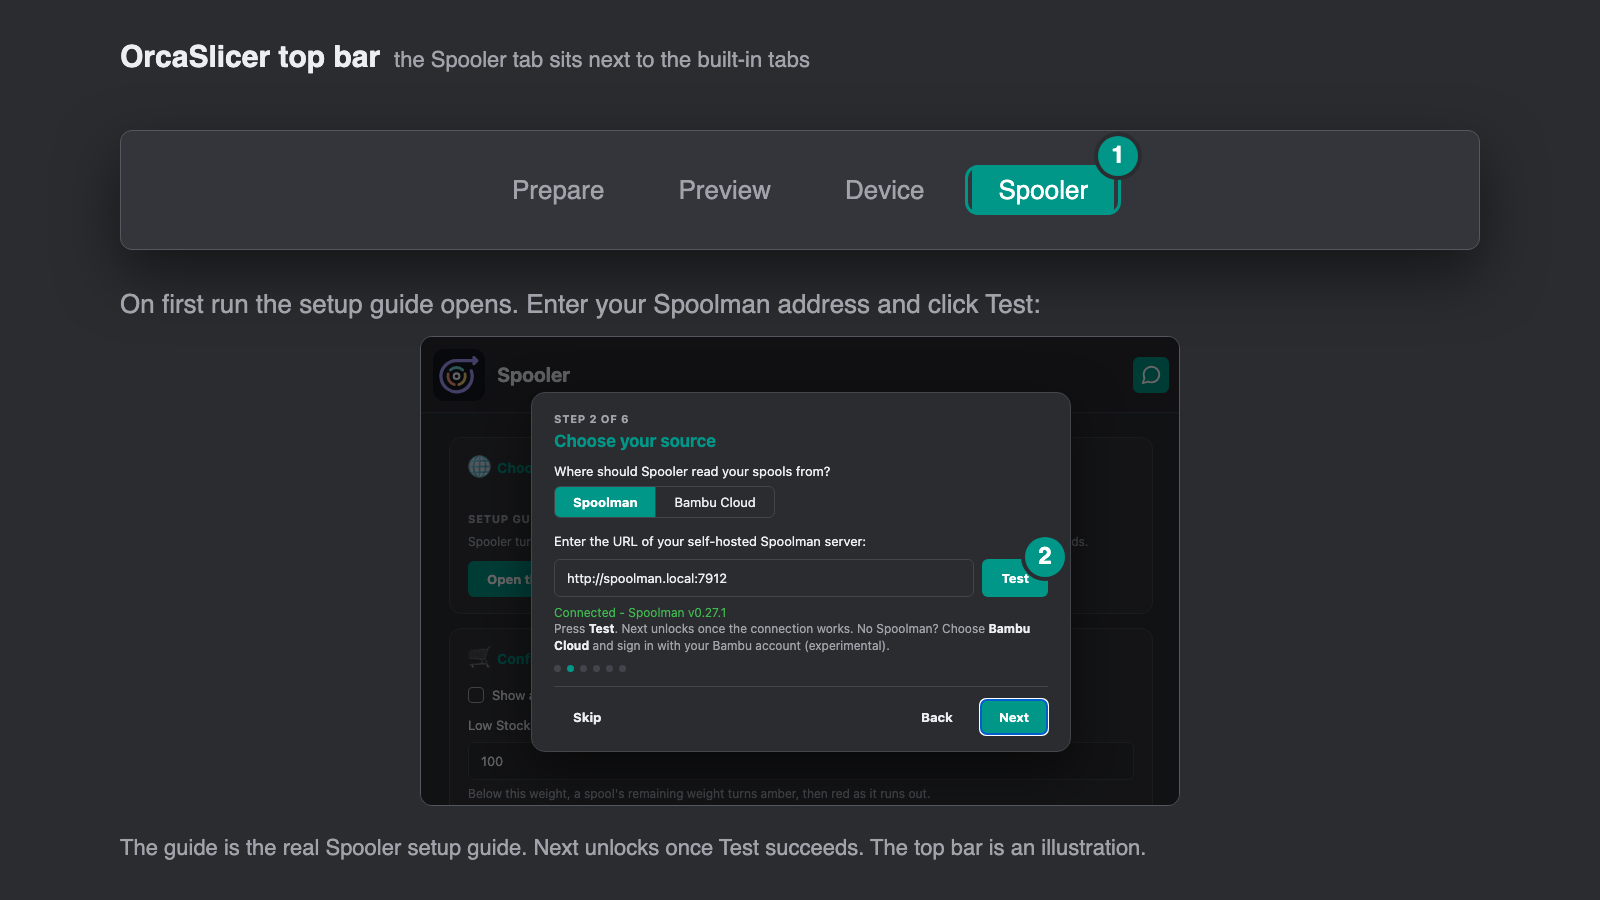
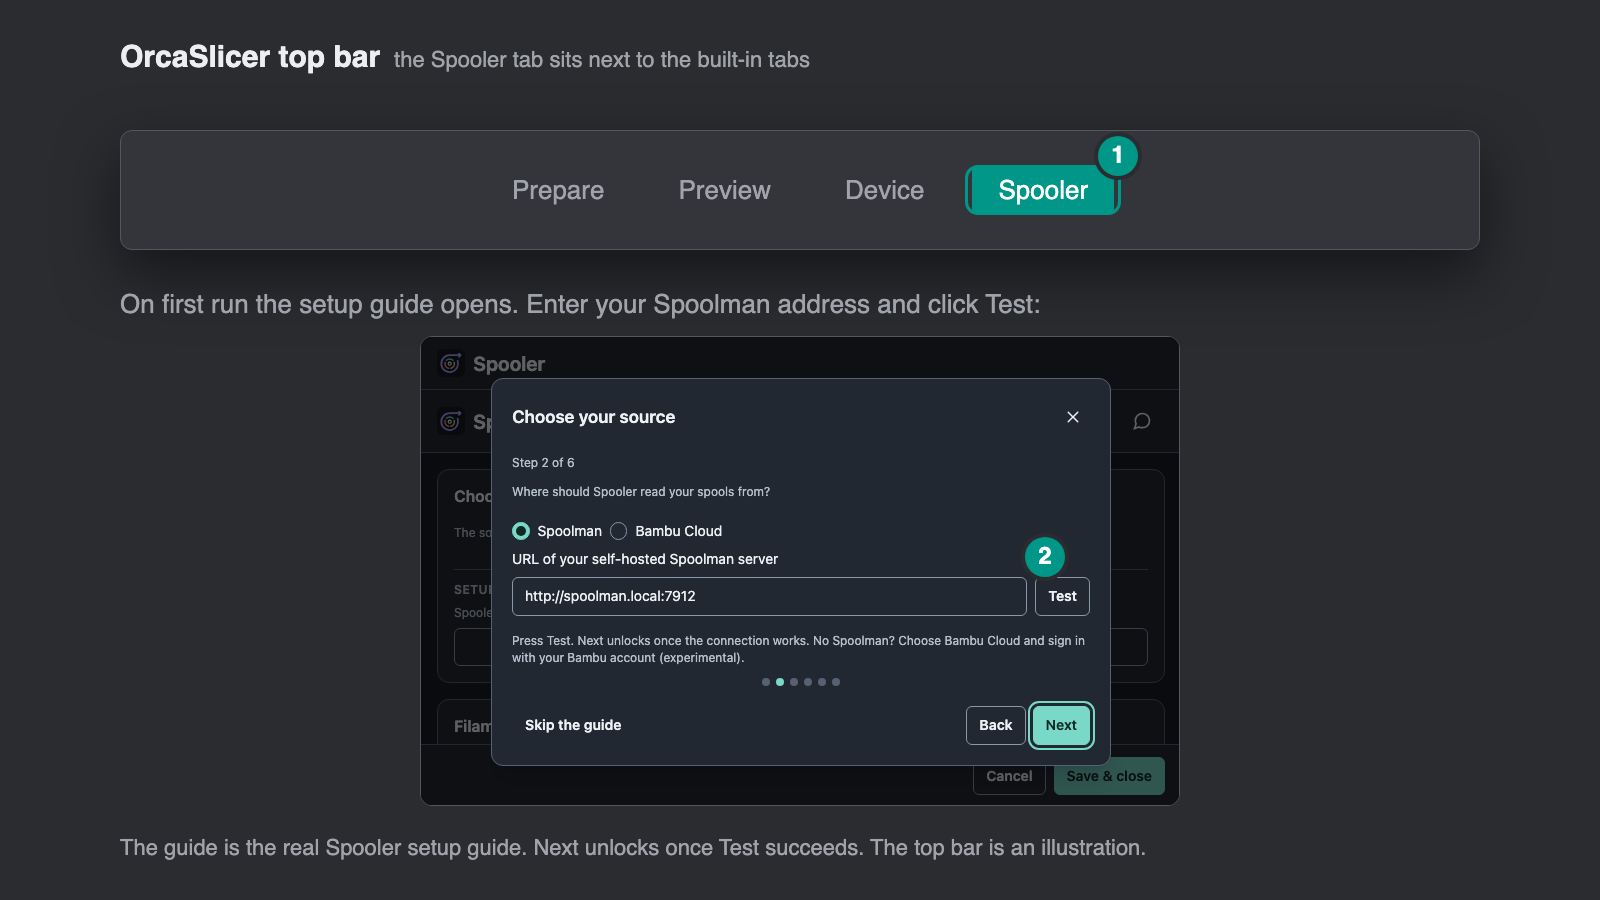
build: publish one universal spooler_any.py instead of six per-OS copies (0.22.1)
The six per-OS files were identical except for their name and a log
label. Orca Cloud's automated permission review kept failing on the
six-file upload (SECURITY_SCAN_UNAVAILABLE) while one-file plugins
publish. Build and release spooler_any.py; update the install docs.

Changed region(s): [[0.25, 0.3733, 0.75, 0.9022]]

diff --git a/scripts/build.py b/scripts/build.py
@@ -1,12 +1,14 @@
 #!/usr/bin/env python3
-"""Build the per-OS plugin files that Orca Cloud expects into dist/.
+"""Build the plugin file Orca Cloud publishes into dist/.
 
-The plugin is a single source file. Each build differs only in its filename suffix,
-which Orca Cloud uses to tell platform builds apart, and in the BUILD_TARGET it
-reports in the log.
+The plugin is a single pure-Python source file that runs on every OS, so the release is one
+universal file, spooler_any.py ("any" is Orca Cloud's suffix for every platform). Uploading six
+identical per-OS copies made Orca Cloud's automated permission review fail with
+SECURITY_SCAN_UNAVAILABLE; one file is what the other plugins publish. A per-OS copy can still be
+built by hand; it differs only in its filename suffix and the BUILD_TARGET it reports in the log.
 
-    python scripts/build.py                        # every target
-    python scripts/build.py --target linux_arm64   # one target
+    python scripts/build.py                        # spooler_any.py and the wheel
+    python scripts/build.py --target linux_arm64   # one per-OS copy instead
 """
 
 import argparse
@@ -23,7 +25,9 @@ import check_version
 ROOT = Path(__file__).resolve().parent.parent
 DIST = ROOT / "dist"
 MARKER = 'BUILD_TARGET = "any"\n'
+DEFAULT_TARGETS = ("any",)
 TARGETS = (
+    "any",
     "win_x86_64",
     "win_arm64",
     "linux_x86_64",
@@ -98,7 +102,7 @@ def main():
     parser = argparse.ArgumentParser(description=__doc__.split("\n")[0])
     parser.add_argument("--target", action="append", choices=TARGETS, help="build only this target")
     args = parser.parse_args()
-    build(tuple(args.target) if args.target else TARGETS)
+    build(tuple(args.target) if args.target else DEFAULT_TARGETS)
 
 
 if __name__ == "__main__":

diff --git a/scripts/store_images/install_guide.py b/scripts/store_images/install_guide.py
@@ -138,9 +138,9 @@ def manual_install() -> str:
 <div style="padding:6px 0">&#128193; orca_plugins</div>
 <div class="hl" style="margin:8px 0 8px 76px;padding:2px 12px;width:max-content">&#128193; spooler
 <span class="badge" style="left:-66px;top:-4px">1</span></div>
-<div class="hl" style="margin:8px 0 0 116px;padding:2px 12px;width:max-content">&#128196; spooler_&lt;os&gt;.py
+<div class="hl" style="margin:8px 0 0 116px;padding:2px 12px;width:max-content">&#128196; spooler_any.py
 <span class="badge" style="left:-66px;top:-4px">2</span></div>
-<div class="muted" style="margin:14px 0 0 116px;font-size:20px">for example spooler_win_x86_64.py or spooler_macosx_arm64.py</div>
+<div class="muted" style="margin:14px 0 0 116px;font-size:20px">the same file on Windows, macOS and Linux</div>
 </div></div>
 <div style="position:absolute;left:120px;right:120px;top:540px;font-size:24px">
 <div style="font-weight:600;margin-bottom:10px">Plugin directory</div>{rows}</div>

diff --git a/plugin/spooler/spooler_any.py b/plugin/spooler/spooler_any.py
@@ -6,7 +6,7 @@
 # name = "Spooler"
 # description = "Spoolman inventory for OrcaSlicer: auto-synced filament profiles and live printer slots"
 # author = "bloodf (fork of Spoolio by Dan J Moore)"
-# version = "0.22.0"
+# version = "0.22.1"
 # ///
 
 import asyncio
@@ -51,7 +51,7 @@ except (ImportError, AttributeError):
 _SLICING = hasattr(getattr(orca, "slicing", None), "SlicingPipelineCapabilityBase")
 
 PLUGIN_NAME = "Spooler"
-PLUGIN_VERSION = "0.22.0"
+PLUGIN_VERSION = "0.22.1"
 # Stamped per operating system by scripts/build.py.
 BUILD_TARGET = "any"
 

diff --git a/README.md b/README.md
@@ -227,16 +227,7 @@ and Google Chrome or Chromium). These use mock data. Pass `--out /tmp/spooler-ar
 <p align="center"><img src="assets/orca-cloud/install/01-plugin-hub.png" alt="Orca Cloud Plugin Hub card for Spooler with the Subscribe button highlighted" width="700"></p>
 <p align="center"><img src="assets/orca-cloud/install/02-plugins-dialog.png" alt="The Plugins dialog with Refresh and Activate highlighted" width="700"></p>
 
-**Manually:** download the file for your system from the [latest release](../../releases/latest):
-
-| System | File |
-|---|---|
-| Windows (x86_64) | `spooler_win_x86_64.py` |
-| Windows (arm64) | `spooler_win_arm64.py` |
-| Linux (x86_64) | `spooler_linux_x86_64.py` |
-| Linux (arm64) | `spooler_linux_arm64.py` |
-| macOS (Apple silicon) | `spooler_macosx_arm64.py` |
-| macOS (Intel) | `spooler_macosx_x86_64.py` |
+**Manually:** download `spooler_any.py` from the [latest release](../../releases/latest). It is the same file on Windows, macOS and Linux.
 
 Place it in its own folder called `spooler` inside OrcaSlicer's plugin directory (one Spooler file per folder):
 

diff --git a/CHANGELOG.md b/CHANGELOG.md
@@ -3,6 +3,11 @@
 Spooler is a fork of [Spoolio](https://github.com/danm1989/spoolio-orcaslicer); entries before
 0.9.0 are Spoolio's.
 
+## [0.22.1] - 2026-11-13
+
+- Releases ship one file, `spooler_any.py`, for every OS instead of six identical per-OS copies (they differed only in the name and a log label). Orca Cloud's automated permission review kept failing on the six-file upload with SECURITY_SCAN_UNAVAILABLE; the other plugins publish one file and go through. Manual install: download `spooler_any.py`.
+- Same plugin as 0.22.0 otherwise.
+
 ## [0.22.0] - 2026-11-13
 
 - Spool cards show the spool itself: a render of the reel with the filament wound on it in the spool's own colour (multi-colour spools too), drawn fuller or emptier in eight steps from what is left. The colour dot stays next to the name.

diff --git a/docs/store-description.md b/docs/store-description.md
@@ -26,16 +26,7 @@ The install pictures are drawn illustrations, simplified, not screenshots. The s
 
 ## Manual install
 
-Download the file for your system from the latest release on GitHub:
-
-| System | File |
-|---|---|
-| Windows (x86_64) | `spooler_win_x86_64.py` |
-| Windows (arm64) | `spooler_win_arm64.py` |
-| Linux (x86_64) | `spooler_linux_x86_64.py` |
-| Linux (arm64) | `spooler_linux_arm64.py` |
-| macOS (Apple silicon) | `spooler_macosx_arm64.py` |
-| macOS (Intel) | `spooler_macosx_x86_64.py` |
+Download `spooler_any.py` from the latest release on GitHub. It is the same file on Windows, macOS and Linux.
 
 Place it in its own folder called `spooler` inside OrcaSlicer's plugin directory (one Spooler file per folder):
 
